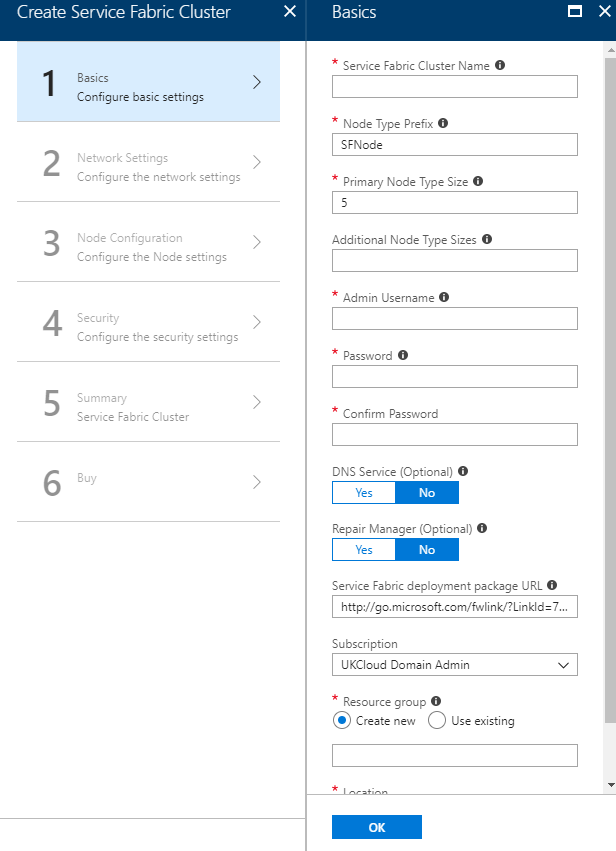
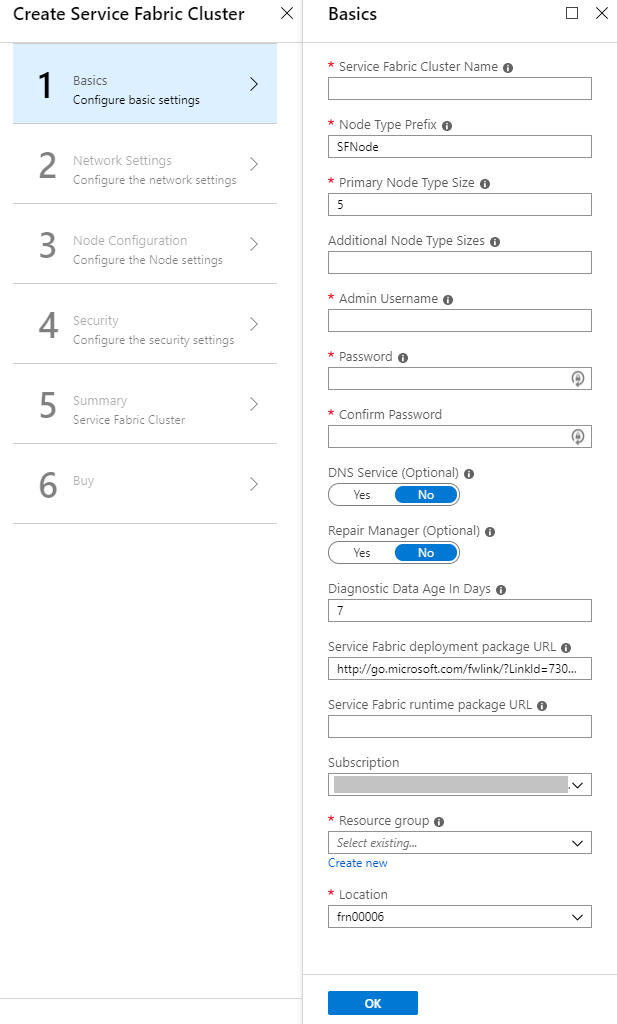
Reviewed rest of document and updated where required.

diff --git a/articles/azure/azs-how-create-service-fabric-portal.md b/articles/azure/azs-how-create-service-fabric-portal.md
@@ -112,6 +112,8 @@ During configuration of the Service Fabric cluster, you must provide several det
 
 5. Tick the top two check boxes, then click the **Save** button.
 
+![Advanced access policies](images/azs_advancedaccesspolicies.png)
+
 6. In the *Settings* section of the key vault blade, select **Properties**.
 
 7. Copy the **Resource ID** and store it for later use.
@@ -158,11 +160,15 @@ You also need the thumbprint of the certificate(s). For information about how to
 
    - **Repair Manager** - Select **Yes** to use Repair Manager to enable patch orchestration on node types with a durability of bronze, which helps keep your VMs up to date.
 
-   - **Service Fabric deployment package URL** - Specify the URL to download the Service Fabric deployment package from. For off-line scenarios, download the service fabric package from the URL specified and upload it to a blob and enable anonymous access and specify the URL here.
+   - **Diagnostic Data Age In Days** - Specify the days to keep the Service Fabric diagnostic log in the diagnostics store.
+
+   - **Service Fabric deployment package URL** - Specify the URL to download the Service Fabric deployment package from. For disconnected scenarios, download the service fabric package from the URL specified and upload it to a blob and enable anonymous access and specify the URL here.
+
+   - **Service Fabric runtime package URL** - Specify the URL to download the Service Fabric runtime package from. For disconnected scenarios, download the service fabric runtime from the URL specified and upload it to a blob and enable anonymous access and specify the URL here.
 
    - **Subscription** - This is your UKCloud for Microsoft Azure subscription.
 
-   - **Resource Group** - Select an existing resource group, or create a new one by typing a name for your new resource group. Note that to create a Service Fabric cluster, the resource group must contain no other resources.
+   - **Resource Group** - Select an existing resource group, or create a new one by clicking the **Create new** link and then typing a name for your new resource group in the pop-out window. Note that to create a Service Fabric cluster, the resource group must contain no other resources.
 
    - **Location** - This will be `frn00006`, which is the Azure Stack Hub region.
 
@@ -213,7 +219,7 @@ You also need the thumbprint of the certificate(s). For information about how to
 
 8. Click **OK**, then **Create**.
 
-9. You can monitor the progress of your Key Vault's deployment by clicking the **Notifications** icon.
+9. You can monitor the progress of your Service Fabric cluster's deployment by clicking the **Notifications** icon.
 
    ![!Notification showing Service Fabric cluster deployment in progress](images/azsp_createvm_progress.png)
 
